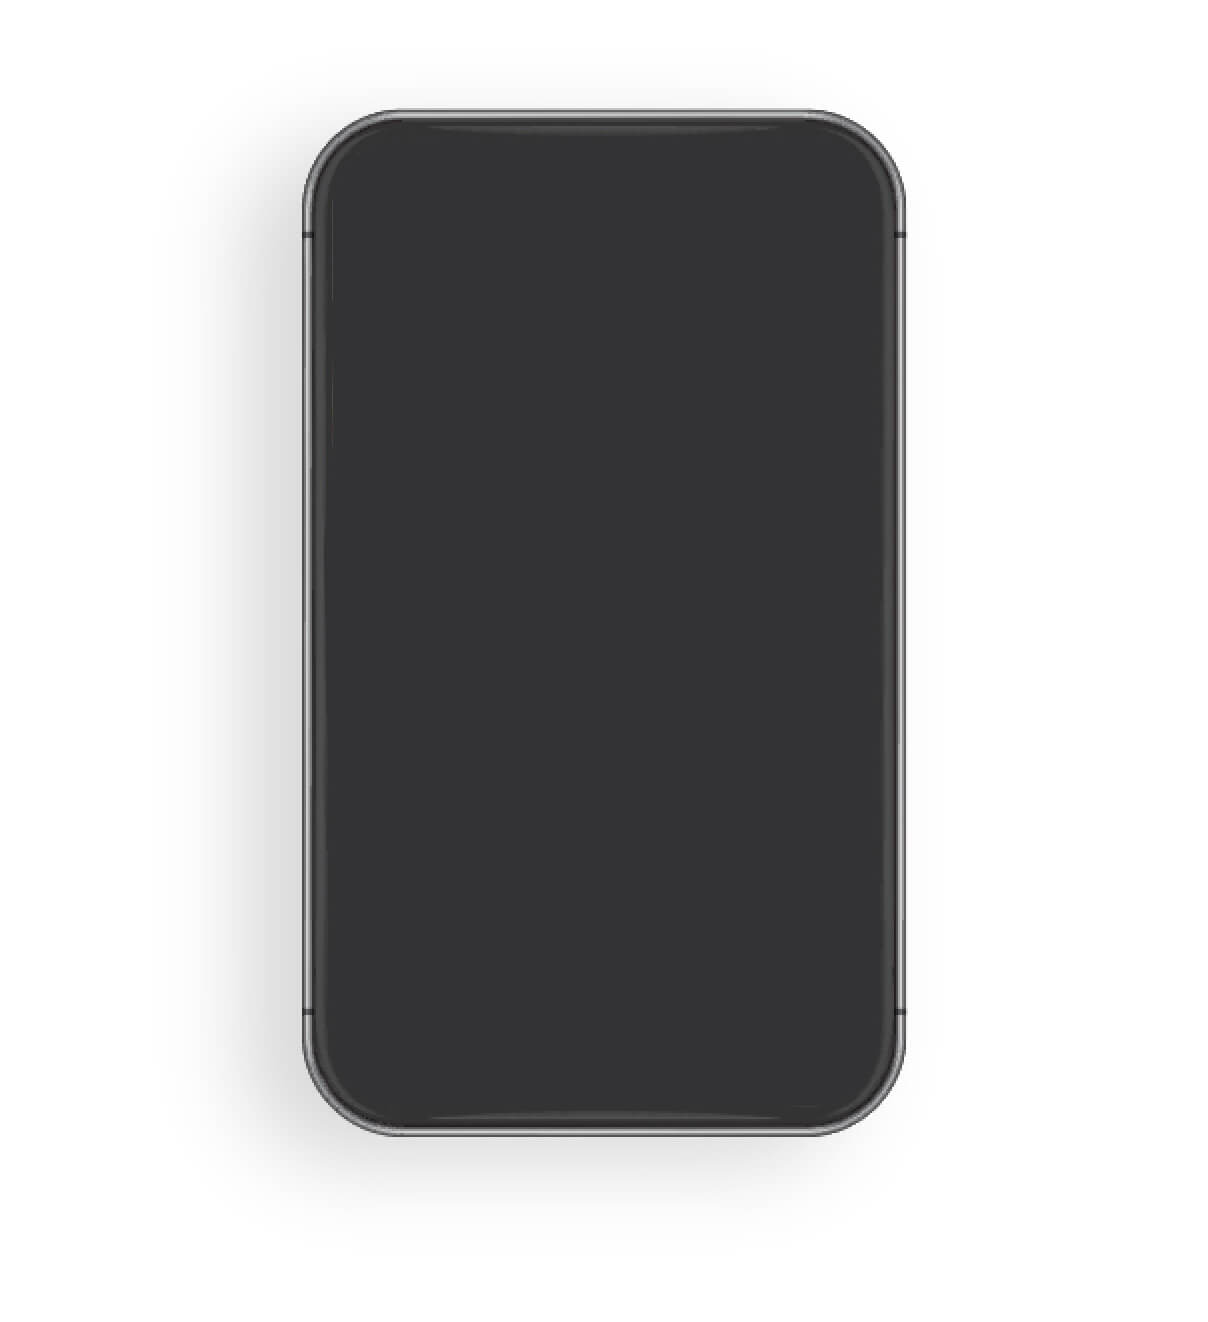
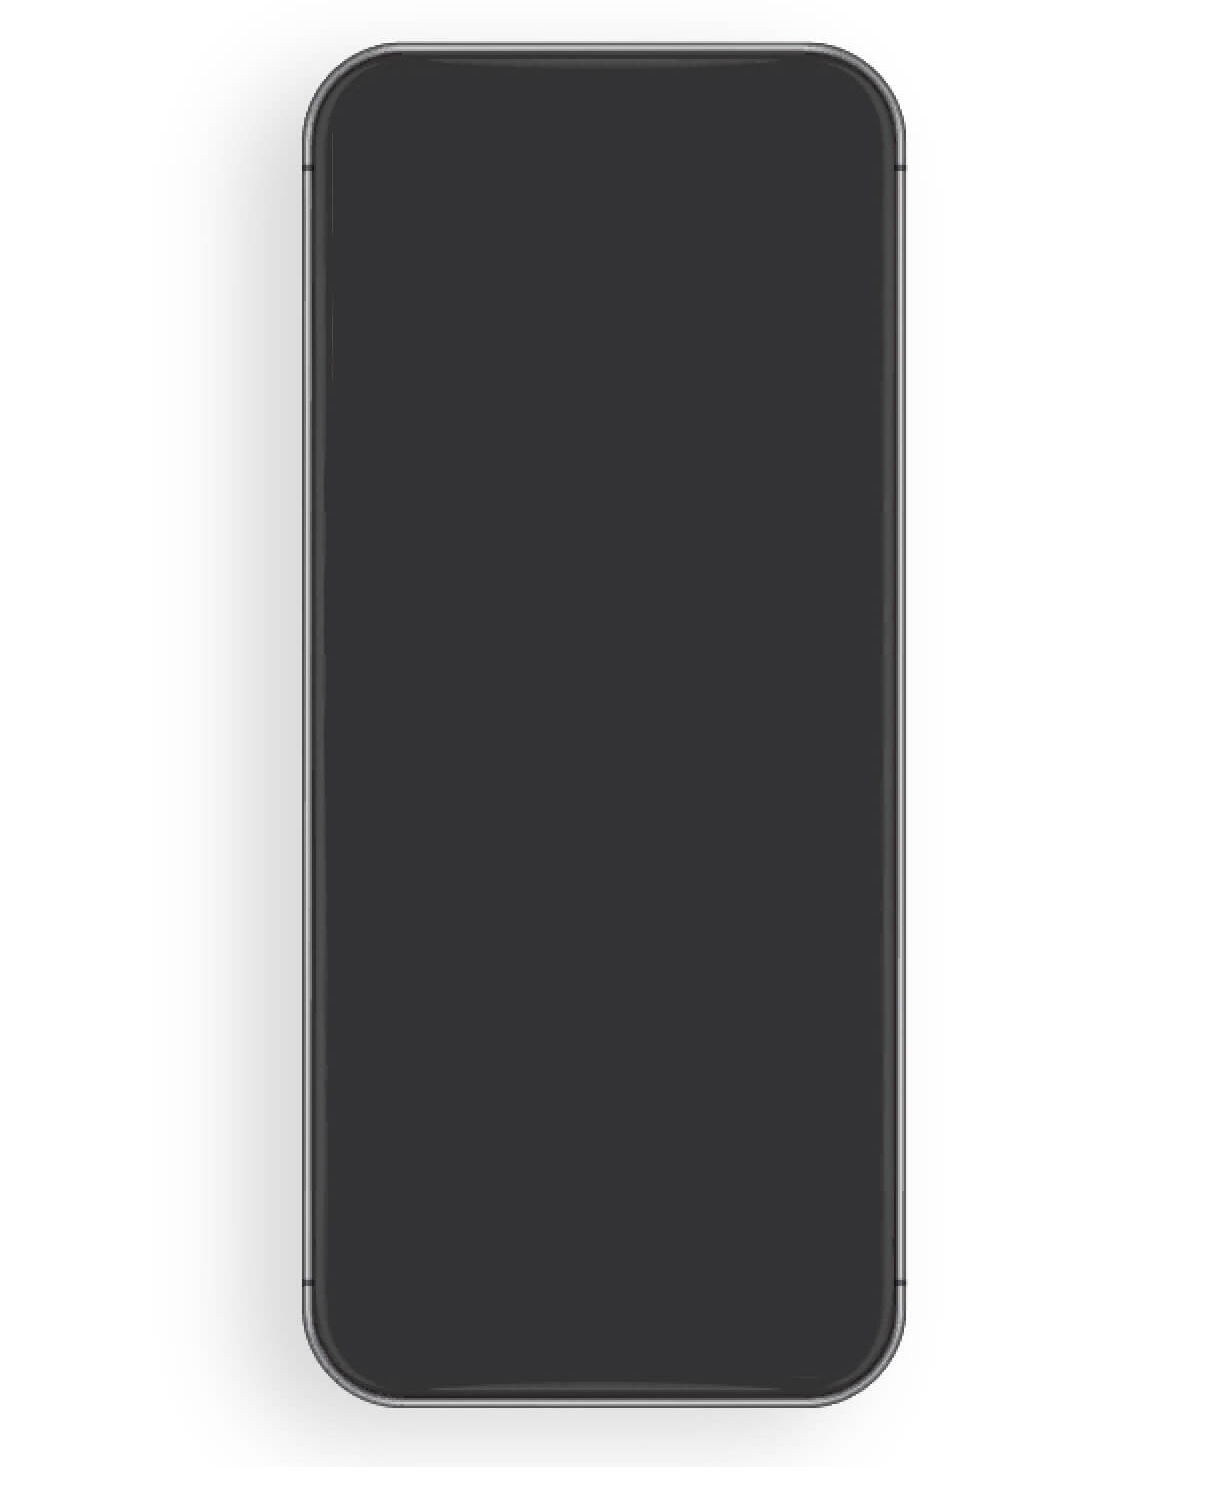
영상사이즈 수정

Changed region(s): [[0.2144, 0.7753, 0.7657, 0.9614], [0.245, 0.0, 0.7657, 0.1551]]

diff --git a/assets/style/default.css b/assets/style/default.css
@@ -27,7 +27,7 @@ header .rela{width:1155px;height:100px;overflow:hidden;margin:0 auto;display:fle
 #shopping-wrap .rela .cont .desc strong{font-weight:700;font-size:20px;color:#304067;}
 #shopping-wrap.on .rela .cont h2{opacity:1;transform:translateX(0px);}
 #shopping-wrap.on .rela .cont .desc{opacity:1;transform:translateX(0px);}
-#shopping-wrap .rela video{position:absolute;right:166px;top:70px;width:272px;border-radius:30px;}
+#shopping-wrap .rela video{position:absolute;right:166px;top:32px;width:272px;border-radius:30px;}
 #shopping-wrap .bubble-list01{opacity:0;position:absolute;width:0px;height:0px;border-radius:50%;background:#f5f6f8;left:197px;top:199px;transition:all 1.5s;}
 #shopping-wrap .bubble-list02{opacity:0;position:absolute;width:0px;height:0px;border-radius:50%;background:#f5f6f8;left:397px;top:112px;transition:all 1.5s;}
 #shopping-wrap .bubble-list03{opacity:0;position:absolute;width:0px;height:0px;border-radius:50%;background:#f5f6f8;left:540px;top:545px;transition:all 1.5s;}
@@ -37,14 +37,14 @@ header .rela{width:1155px;height:100px;overflow:hidden;margin:0 auto;display:fle
 video{outline:none;}
 #wiggler-wrap{background:#f5f6f8;}
 #wiggler-wrap .rela{display:flex;justify-content:center;align-items:center;}
-#wiggler-wrap .video-wrap{opacity:0;transform:translateY(50px);transition:all 2s;width:386px;height:573px;overflow:hidden;position:relative;background:url(../image/bg/bg-wiggler-wrap.png) no-repeat center center;background-size:386px 573px;}
+#wiggler-wrap .video-wrap{opacity:0;transform:translateY(50px);transition:all 2s;width:386px;height:700px;overflow:hidden;position:relative;background:url(../image/bg/bg-wiggler-wrap.png) no-repeat center center;background-size:386px 700px;}
 #wiggler-wrap.on .video-wrap{opacity:1;transform:translateY(0px);}
 #wiggler-wrap .rela .cont{flex:1;width:100%;height:auto;}
 #wiggler-wrap .rela .cont h2{opacity:0;transform:translateX(50px);transition:all .7s;text-align:right;width:100%;height:auto;font-size:55px;color:#304067;font-weight:800;}
 #wiggler-wrap .rela .cont .desc{opacity:0;transform:translateX(50px);transition:all 1.5s;line-height:1.5em;text-align:right;margin-top:59px;width:100%;height:auto;font-size:20px;color:#304067;font-weight:400;}
 #wiggler-wrap.on .rela .cont h2{opacity:1;transform:translateX(0px);}
 #wiggler-wrap.on .rela .cont .desc{opacity:1;transform:translateX(0px);}
-#wiggler-wrap .rela video{position:absolute;left:28px;top:33px;width:270px;border-radius:30px;}
+#wiggler-wrap .rela video{position:absolute;left:28px;top:80px;width:270px;border-radius:30px;}
 .balloon-list01{opacity:0;position:absolute;left:400px;top:179px;transition:all 1.5s;}
 .balloon-list02{opacity:0;position:absolute;left:600px;top:463px;transition:all 1.5s;}
 .bubble-list01{opacity:0;position:absolute;width:0px;height:0px;border-radius:50%;background:#fff;left:480px;top:270px;transition:all 1.5s;}
@@ -111,7 +111,7 @@ footer .rela ul li button:hover{transform:translateY(-3px)}
     #shopping-wrap .rela .cont .desc{text-align:center;margin-bottom:55px;font-size:11px;}
     #shopping-wrap .rela .cont .desc strong{font-size:11px;}
     #shopping-wrap .video-wrap{background:url(../image/bg/bg-shopping-wrap-m.jpg) no-repeat center bottom;background-size:300px 330px;margin-right:0;position:absolute;width:300px;height:330px;left:50%;margin-left:-150px;top:103px;}
-    #shopping-wrap .rela video{right:83px;top:34px;width:136px;border-radius:20px;}
+    #shopping-wrap .rela video{right:83px;top:22px;width:136px;border-radius:20px;}
     #shopping-wrap .bubble-list01{z-index:30;left:32px;top:33px;}
     #shopping-wrap .bubble-list02{z-index:30;left:auto;right:16px;top:103px;}
     #shopping-wrap .bubble-list03{z-index:30;left:58px;top:auto;bottom:32px;}
@@ -122,7 +122,7 @@ footer .rela ul li button:hover{transform:translateY(-3px)}
     #wiggler-wrap .rela .cont{display:flex;justify-content:flex-end;align-items:center;flex-direction:column;height:580px;position:relative;}
     #wiggler-wrap .rela .cont h2{position:absolute;left:0;top:58px;font-size:18px;text-align:center;color:#304067;}
     #wiggler-wrap .video-wrap{background:url(../image/bg/bg-wiggler-wrap-m.jpg) no-repeat center bottom;background-size:300px 330px;margin-right:0;position:absolute;width:300px;height:330px;left:50%;margin-left:-150px;top:103px;}
-    #wiggler-wrap .rela video{left:auto;right:83px;top:34px;width:136px;border-radius:20px;}
+    #wiggler-wrap .rela video{left:auto;right:83px;top:24px;width:136px;border-radius:20px;}
     #wiggler-wrap .rela .cont .desc{text-align:center;margin-bottom:55px;font-size:11px;}
     #wiggler-wrap .bubble-list01{top:auto;bottom:141px;left:auto;right:31px;}
     #wiggler-wrap.on .bubble-list01{width:35px;height:35px;}
